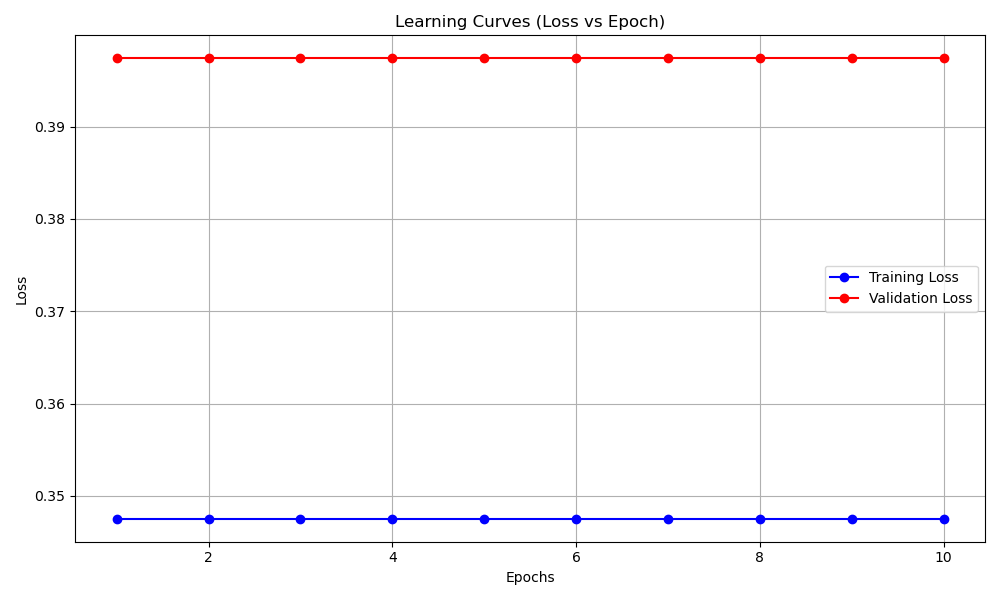
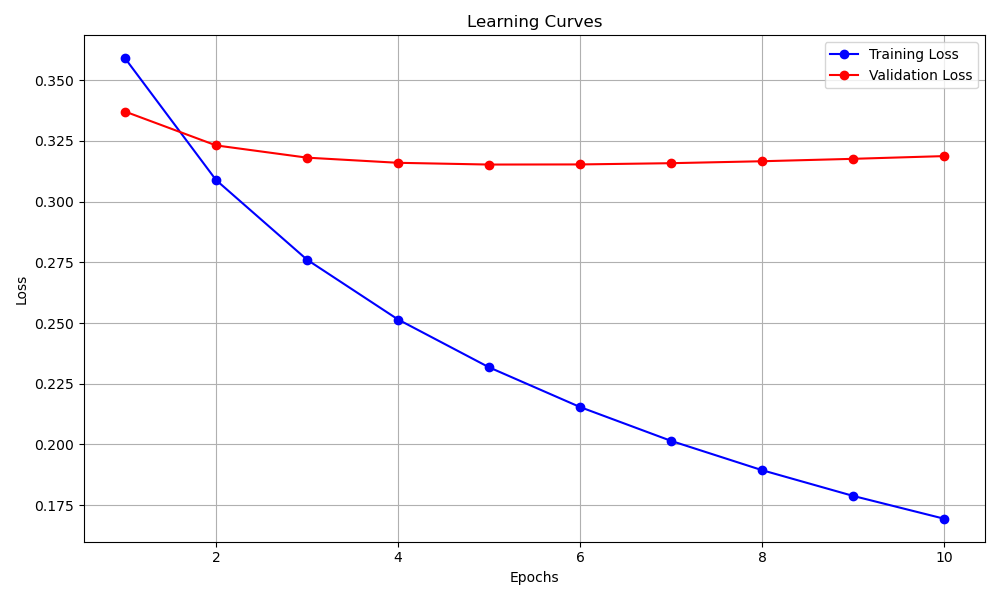
Changes in plotting of learning curves and even better results

diff --git a/main.py b/main.py
@@ -1,7 +1,8 @@
 import os
 import pandas as pd
+import numpy as np
 from ml.cross_validation import CrossValidator
-from ml.learning_curve import LearningCurve, plot_learning_curves
+from ml.learning_curve import plot_learning_curves
 from ml.functional_feature import detect_feature_types
 from ml.logistic_regression import LogisticRegression
 from ml.metric import Accuracy, Precision, Recall, F1Score, ConfusionMatrix, ROCAUC, LogLoss
@@ -26,6 +27,32 @@ def select_dataset(directory="datasets"):
         raise ValueError("Invalid choice. Please select a valid dataset.")
     
     return os.path.join(directory, datasets[choice])
+
+def train_validation_split(X, y, val_size=0.2, random_seed=42):
+    """
+    Splits the dataset into training and validation sets.
+
+    Args:
+        X (np.ndarray): Feature matrix.
+        y (np.ndarray): Target vector.
+        val_size (float): Proportion of the data to use as validation (0 < val_size < 1).
+        random_seed (int): Random seed for reproducibility.
+
+    Returns:
+        tuple: (X_train, X_val, y_train, y_val)
+    """
+    np.random.seed(random_seed)
+    indices = np.arange(X.shape[0])
+    np.random.shuffle(indices)
+
+    split_idx = int(len(indices) * (1 - val_size))
+    train_indices, val_indices = indices[:split_idx], indices[split_idx:]
+
+    X_train, X_val = X[train_indices], X[val_indices]
+    y_train, y_val = y[train_indices], y[val_indices]
+
+    return X_train, X_val, y_train, y_val
+
 
 def preprocess_and_transform(dataset, input_features, train_artifacts, dataset_type="training"):
     """Preprocess and transform features using artifacts."""
@@ -108,31 +135,23 @@ def run_pipeline(directory="datasets", artifacts_dir="artifacts"):
 
     # Use best parameters for the final model
     print("\nTraining final Logistic Regression model with best parameters...")
+    # Split the dataset for validation during final training
+    X_train, X_val, y_train, y_val = train_validation_split(X_train, y_train, val_size=0.2)
+
+    # Train the final model
     final_model = LogisticRegression(
         learning_rate=best_params['learning_rate'],
         n_iterations=best_params['n_iterations'],
         regularization=best_params['regularization'],
         epochs=10,
         decay_type=best_params['decay_type'],
-        decay_rate=best_params['decay_rate'],
+        decay_rate=best_params['decay_rate']
     )
-    final_model.fit(X_train, y_train)
+    final_model.fit(X_train, y_train, validation_data=(X_val, y_val))
     print("Final model training complete.")
-
-
-    # Generate learning curve
-    learning_curve = LearningCurve(
-        model_class=LogisticRegression,
-        learning_rate=best_params['learning_rate'],
-        n_iterations=best_params['n_iterations'],
-        regularization=best_params['regularization'],
-        epochs=10,
-        decay_type=best_params['decay_type'],
-        decay_rate=best_params['decay_rate'],
-    )
     
-    epochs, train_losses, val_losses = learning_curve.generate(X_train, y_train)
-    plot_learning_curves(epochs, train_losses, val_losses)
+    plot_learning_curves(final_model.train_losses, final_model.val_losses)
+
     
     # Prediction pipeline (rest of the existing code)
     print("\nSelect the prediction dataset:")

diff --git a/ml/learning_curve.py b/ml/learning_curve.py
@@ -1,65 +1,24 @@
-import numpy as np
 import matplotlib.pyplot as plt
-from ml.metric import LogLoss
 
-class LearningCurve:
-    def __init__(self, model_class, learning_rate, n_iterations, regularization, epochs, decay_type="none", decay_rate=0.01):
-        self.model_class = model_class
-        self.learning_rate = learning_rate
-        self.n_iterations = n_iterations
-        self.regularization = regularization
-        self.epochs = epochs
-        self.decay_type = decay_type
-        self.decay_rate = decay_rate
+def plot_learning_curves(train_losses, val_losses):
+    """
+    Plot the learning curves for training and validation loss across epochs.
 
-    def generate(self, X, y):
-        """Generates training and validation loss across epochs."""
-        train_losses = []
-        val_losses = []
+    Args:
+        train_losses (list): List of training loss values for each epoch.
+        val_losses (list): List of validation loss values for each epoch.
+    """
+    epochs = range(1, len(train_losses) + 1)
 
-        # Split data into training and validation sets
-        indices = np.random.permutation(len(X))
-        split_idx = int(len(X) * 0.8)  # 80% training, 20% validation
-        X_train, X_val = X[indices[:split_idx]], X[indices[split_idx:]]
-        y_train, y_val = y[indices[:split_idx]], y[indices[split_idx:]]
-
-        # Initialize the model
-        model = self.model_class(
-            learning_rate=self.learning_rate,
-            n_iterations=self.n_iterations,
-            regularization=self.regularization,
-            epochs=1,  # One epoch per iteration for tracking
-            decay_type=self.decay_type,
-            decay_rate=self.decay_rate,
-        )
-
-        for epoch in range(1, self.epochs + 1):
-            model.fit(X_train, y_train)  # Train for one epoch
-
-            # Calculate training and validation loss
-            train_loss = LogLoss()(y_train, model._sigmoid(np.dot(X_train, model.weights) + model.bias))
-            val_loss = LogLoss()(y_val, model._sigmoid(np.dot(X_val, model.weights) + model.bias))
-
-            train_losses.append(train_loss)
-            val_losses.append(val_loss)
-
-            # Optionally log progress
-            print(f"Epoch {epoch}/{self.epochs}: Train Loss = {train_loss:.4f}, Val Loss = {val_loss:.4f}")
-
-        return list(range(1, self.epochs + 1)), train_losses, val_losses
-
-
-
-def plot_learning_curves(epochs, train_losses, val_losses):
-    """Plots loss vs epoch."""
     plt.figure(figsize=(10, 6))
-    plt.plot(epochs, train_losses, label='Training Loss', color='blue', marker='o')
-    plt.plot(epochs, val_losses, label='Validation Loss', color='red', marker='o')
-    plt.title('Learning Curves (Loss vs Epoch)')
+    plt.plot(epochs, train_losses, label='Training Loss', marker='o', color='blue')
+    if val_losses:
+        plt.plot(epochs, val_losses, label='Validation Loss', marker='o', color='red')
+    plt.title('Learning Curves')
     plt.xlabel('Epochs')
     plt.ylabel('Loss')
     plt.legend()
     plt.grid(True)
     plt.tight_layout()
     plt.savefig('./plots/learning_curves_epoch_loss.png')
-    plt.close()
+    plt.show()

diff --git a/ml/logistic_regression.py b/ml/logistic_regression.py
@@ -37,7 +37,15 @@ class LogisticRegression(Model):
         elif self.decay_type == "none":
             return self.learning_rate 
 
-    def fit(self, X: np.ndarray, y: np.ndarray):
+    def fit(self, X: np.ndarray, y: np.ndarray, validation_data=None):
+        """
+        Fit the logistic regression model to the training data and optionally track validation loss.
+
+        Args:
+            X (np.ndarray): Feature matrix of shape (n_samples, n_features).
+            y (np.ndarray): Target vector of shape (n_samples,).
+            validation_data (tuple): Optional (X_val, y_val) for tracking validation loss.
+        """
         if y.ndim > 1 and y.shape[1] == 2:
             y = y[:, 1]  # Convert one-hot to single-class labels if necessary
 
@@ -45,9 +53,12 @@ class LogisticRegression(Model):
         self.weights = np.zeros(n_features)
         self.bias = 0
 
+        self.train_losses = []  # Store training loss for each epoch
+        self.val_losses = []    # Store validation loss for each epoch (if validation data is provided)
+
         for epoch in range(self.epochs):
             for iteration in range(self.n_iterations):
-                t = epoch * self.n_iterations + iteration  # Total iterations
+                t = epoch * self.n_iterations + iteration  # Total iteration count
                 current_lr = self._update_learning_rate(t)
 
                 model = np.dot(X, self.weights) + self.bias
@@ -57,15 +68,25 @@ class LogisticRegression(Model):
                 dw = (1 / n_samples) * np.dot(X.T, (predictions - y)) + self.regularization * self.weights
                 db = (1 / n_samples) * np.sum(predictions - y)
 
-                # Update weights and bias with current learning rate
+                # Update weights and bias using the current learning rate
                 self.weights -= current_lr * dw
                 self.bias -= current_lr * db
 
-            # Optionally log progress for each epoch
-            loss = self._compute_loss(y, self._sigmoid(np.dot(X, self.weights) + self.bias))
-            print(f"Epoch {epoch + 1}/{self.epochs} - Loss: {loss:.4f}")
+            # Compute and log training loss
+            train_loss = self._compute_loss(y, self._sigmoid(np.dot(X, self.weights) + self.bias))
+            self.train_losses.append(train_loss)
+
+            # Compute and log validation loss (if provided)
+            if validation_data is not None:
+                X_val, y_val = validation_data
+                val_loss = self._compute_loss(y_val, self._sigmoid(np.dot(X_val, self.weights) + self.bias))
+                self.val_losses.append(val_loss)
+                print(f"Epoch {epoch + 1}/{self.epochs} - Train Loss: {train_loss:.4f}, Val Loss: {val_loss:.4f}")
+            else:
+                print(f"Epoch {epoch + 1}/{self.epochs} - Train Loss: {train_loss:.4f}")
 
         self.trained = True
+
 
     def _compute_loss(self, y, predictions):
         """Calculate loss using log-loss function."""

diff --git a/README.md b/README.md
@@ -114,6 +114,17 @@ Confustion Matrix:
 [[292  66]
  [ 60 252]]
 
+Model Performance Metrics:
+Accuracy: 0.8433
+Precision: 0.8657
+Recall: 0.7853
+F1 Score: 0.8235
+ROC-AUC: 0.8413
+Log Loss: 5.4128
+Confustion Matrix: 
+[[320  38]
+ [ 67 245]]
+
 
 ---------
 The percentage of all correct predictions (TP + TN) out of the total predictions
